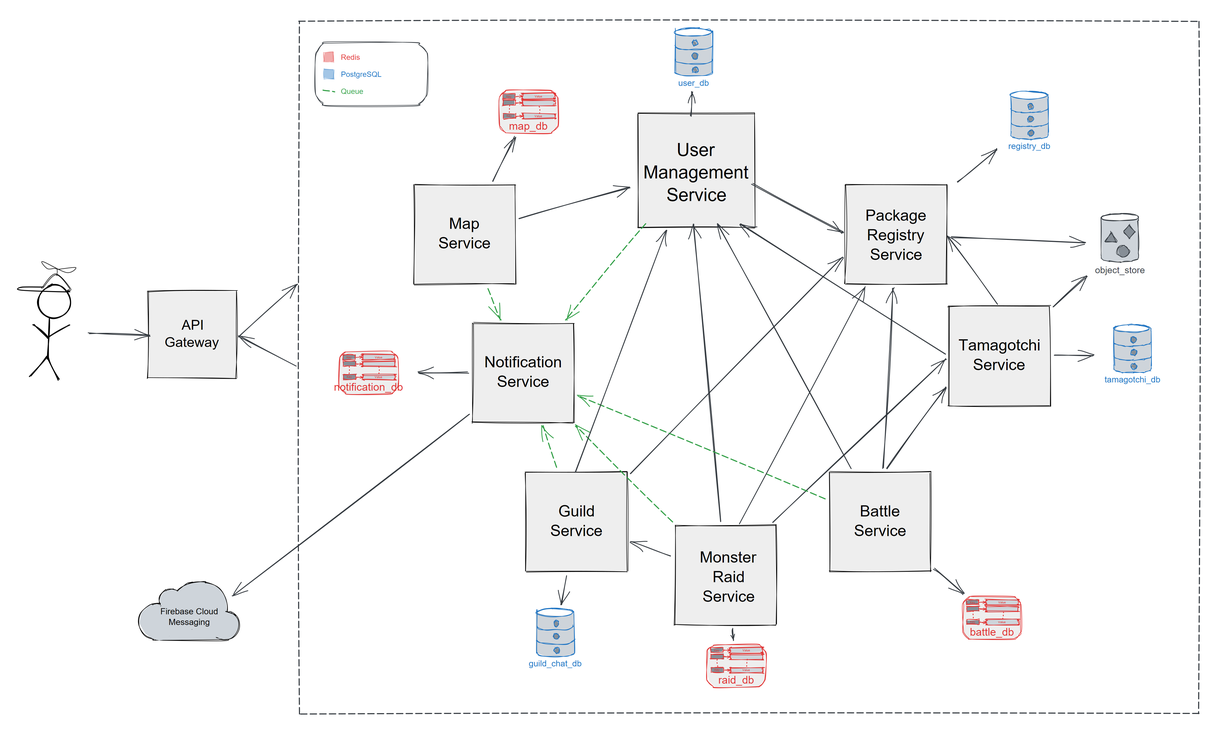
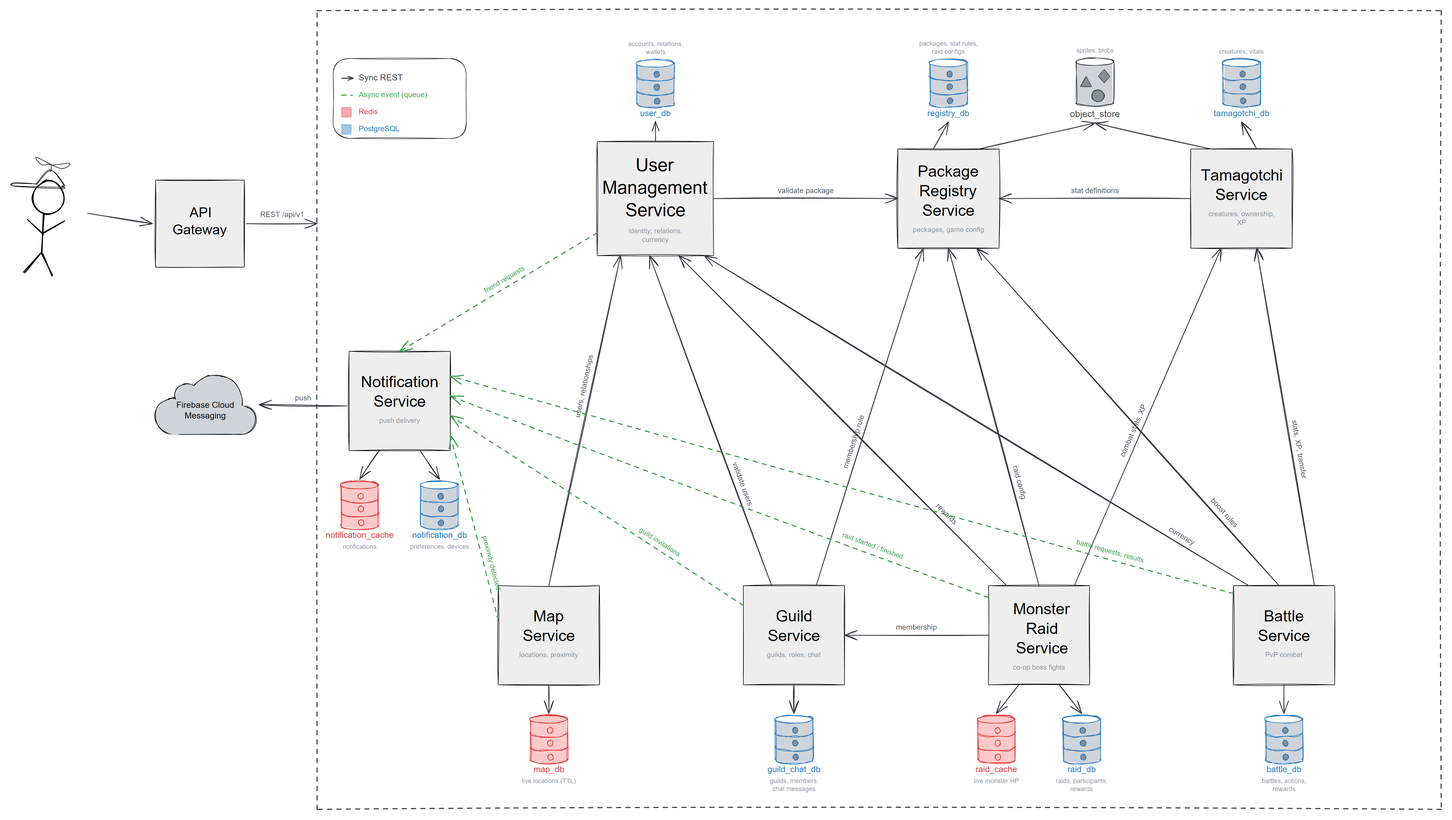
docs: clean up architecture diagram layout and label interactions (#18)
* docs: clean up architecture diagram layout and label interactions

* docs: use red cylinders for redis stores and untangle async arrows

* docs: describe database contents and async events in diagram

* docs: add table of contents to readme

* docs: show the battle service database on postgresql

* docs: link only top-level sections in the table of contents

* docs: list postgresql alongside redis for monster raid service

* fix: probe postgres over tcp in the compose healthchecks

Without an explicit host, pg_isready checks the unix socket at
/var/run/postgresql. The postgres image starts a temporary server on
that socket while initdb runs, so the container was reported healthy
before it accepted TCP connections.

Services waiting on condition: service_healthy could therefore start
too early and fail to connect on a cold start, which showed up as
tamagotchi-api exiting with "Connection refused" after down --volumes.

Probing 127.0.0.1 makes the check match how the services actually
connect.

* docs: rework the deployment section and correct service storage

The deployment section was written for a six service stack and never
caught up: it omitted the Tamagotchi and Notification ports, volumes,
Redis password and health checks, and named neither of their Postman
collections.

Rework it so it stays correct as the system grows:

- rename "Lab 1 Deployment" to "Deployment" and drop the lab wording,
  so later labs do not have to rename or rewrite the section
[…]

diff --git a/README.md b/README.md
@@ -6,6 +6,18 @@ Players raise Tamagotchis in apps of their own creation, all connected to a comm
 
 Developed for the PAD (Distributed Applications Programming) course at FAF, Technical University of Moldova.
 
+## Table of Contents
+
+- [Service Boundaries](#service-boundaries)
+- [Architecture Diagram](#architecture-diagram)
+- [Communication Patterns](#communication-patterns)
+- [Communication Contract](#communication-contract)
+- [Project Management](#project-management)
+- [Development Guidelines](#development-guidelines)
+- [Deployment](#deployment)
+- [Service Ownership and Technology Stack](#service-ownership-and-technology-stack)
+- [Technology Stack Rationale](#technology-stack-rationale)
+
 ## Service Boundaries
 
 ### User Management Service
@@ -50,7 +62,7 @@ Receives continuous geolocation updates from the user's application. It stores t
 
 It provides a map of nearby users: friends and enemies are always visible, while unknown users become relevant only when they come within roughly **6 meters** of one another. When two previously unrelated users cross the proximity threshold, the service generates an event that can result in suggestions to befriend or battle one another.
 
-The service **does not** directly manage battles or notifications — it only emits proximity events. It relies on the **User Management Service** for friend/enemy relationships and publishes events consumed by the **Notification Service**.
+The service **does not** directly manage battles or notifications - it only emits proximity events. It relies on the **User Management Service** for friend/enemy relationships and publishes events consumed by the **Notification Service**.
 
 ### Guild Service
 
@@ -64,7 +76,7 @@ Guilds act as the social context for **Monster Raids**: members can join an acti
 
 Provides a cooperative, clicker-style raid in which members of a guild collectively fight a single powerful monster. A raid has a monster with a large amount of health and a defined duration.
 
-Any eligible guild member may contribute their **primary Tamagotchi** to the raid. Instead of a one-on-one battle, every participating Tamagotchi contributes damage to the same monster. The service maintains the current monster HP, participating users, damage dealt, timestamps, and raid status. Actions may be deliberately simple — players repeatedly attack/click to deal damage, with the amount determined by their primary Tamagotchi's combat properties and any equipped boosts.
+Any eligible guild member may contribute their **primary Tamagotchi** to the raid. Instead of a one-on-one battle, every participating Tamagotchi contributes damage to the same monster. The service maintains the current monster HP, participating users, damage dealt, timestamps, and raid status. Actions may be deliberately simple - players repeatedly attack/click to deal damage, with the amount determined by their primary Tamagotchi's combat properties and any equipped boosts.
 
 When the monster dies, the service distributes rewards (global currency, XP, or other globally managed rewards) to participating users. A raid may also **fail** when its timer expires.
 
@@ -76,7 +88,7 @@ Maintains the packages of the apps participating in the ecosystem and acts as th
 
 It stores package information (identifier/name, version, description, status, associated developers/moderators) and records which users are registered with which packages.
 
-**Moderators** are privileged users associated with a package, representing its developers. They define the package's local Tamagotchi growth mechanics and statistics. Different packages may use completely different, non-normalized statistics — for example, one package may use *hunger, happiness, tiredness*, while another uses *energy, mood, discipline, creativity*. The service stores the definition and interpretation rules for these statistics, including a statistic's maximum value and thresholds that may produce a combat bonus. The **Battle Service** may consult these definitions to compute package-specific bonuses without requiring all packages to share the same data structure.
+**Moderators** are privileged users associated with a package, representing its developers. They define the package's local Tamagotchi growth mechanics and statistics. Different packages may use completely different, non-normalized statistics - for example, one package may use *hunger, happiness, tiredness*, while another uses *energy, mood, discipline, creativity*. The service stores the definition and interpretation rules for these statistics, including a statistic's maximum value and thresholds that may produce a combat bonus. The **Battle Service** may consult these definitions to compute package-specific bonuses without requiring all packages to share the same data structure.
 
 **Admins** are globally privileged users who design and schedule Monster Raids. They define monster name, description, sprites, maximum HP, combat statistics, weaknesses, resistances, special properties, raid duration, participant limits, and reward configuration, and may schedule, activate, deactivate, or cancel raids.
 
@@ -95,11 +107,15 @@ Examples include:
 
 It consumes events published by other services (notably the **User Management Service**, **Map Service**, **Battle Service**, **Guild Service**, and **Monster Raid Service**) and delivers them to the appropriate clients.
 
+[Back to top](#table-of-contents)
+
 ## Architecture Diagram
 
 Requests flow from the client through the API Gateway, which fronts the microservices. Each service owns its own database. Synchronous calls (solid arrows) handle request/response between services, while asynchronous events (dotted arrows) are published to the Notification Service, which delivers push notifications via Firebase Cloud Messaging. Blobs, images and large JSON documents live in shared S3-compatible object storage; service databases keep only their object keys or URLs.
 
 ![Architecture Diagram](docs/architecture.png)
+
+[Back to top](#table-of-contents)
 
 ## Communication Patterns
 
@@ -172,6 +188,8 @@ The following interactions correspond to the arrows in the architecture diagram 
 - `X-Correlation-ID` traces one operation across services and events.
 - Commands that can be submitted more than once accept an `Idempotency-Key`.
 - Services return consistent JSON error objects containing `code`, `message`, and `correlationId`.
+
+[Back to top](#table-of-contents)
 
 ## Communication Contract
 
@@ -249,11 +267,11 @@ Every event sent through the queue uses the following envelope:
 | User Management Service | Accounts, sessions, relationships, wallets and ledger | PostgreSQL |
 | Tamagotchi Service | Creatures, roster slots, package-local vitals and ownership transfers | PostgreSQL; flexible vitals are stored in a `jsonb` column |
 | Package Registry Service | Packages, moderators, statistic definitions and rules, boosts, monsters, raid schedules and global configuration | PostgreSQL |
-| Map Service | Latest location per user, map settings and encounters | Redis with TTL for current locations; PostgreSQL for durable encounters and settings |
+| Map Service | Latest location per user, map settings and encounters | Redis with a TTL per location, so stale positions expire on their own |
 | Battle Service | Battle requests, battles, sides, turns and results | PostgreSQL |
 | Guild Service | Guilds, memberships, membership requests and chat messages | PostgreSQL |
 | Monster Raid Service | Raids, participants, attack batches and rewards | PostgreSQL; current monster HP is kept in Redis |
-| Notification Service | Devices, preferences, notification history and templates | PostgreSQL |
+| Notification Service | Devices, preferences, notification history and templates | PostgreSQL for the per-user notification preferences and registered devices; Redis for the notifications themselves |
 
 MongoDB is not part of the selected architecture. An S3-compatible object store keeps blobs, images and large JSON documents. Services store only the corresponding object key or URL in their own database; Package Registry Service owns shared package and monster assets, while Tamagotchi Service stores references to creature assets.
 
@@ -1054,7 +1072,7 @@ If a dependency is unavailable, the battle remains `SETTLING` and the failed com
 
 #### Map Service
 
-Map Service owns current location state, map settings, encounters and map visibility calculations. Clients continuously replace their latest location through the API Gateway. The service keeps only the newest location for each user in Redis with a TTL and stores durable settings and encounters in PostgreSQL.
+Map Service owns current location state, map settings, encounters and map visibility calculations. Clients continuously replace their latest location through the API Gateway. The service keeps only the newest location for each user, in Redis with a TTL, so a position that stops being refreshed disappears from the map on its own.
 
 ##### Endpoint Catalog
 
@@ -1395,9 +1413,13 @@ PostgreSQL stores device registrations, preferences, notification history, templ
 | Inbound | Monster Raid Service through Queue | Consume raid lifecycle events | Deliver raid notifications |
 | Outbound | Firebase Cloud Messaging | Send push messages over the provider HTTPS API | Deliver notifications to registered client devices |
 
+[Back to top](#table-of-contents)
+
 ## Project Management
 
 Tasks are tracked on the [GitHub Project board](https://github.com/users/m33ga/projects/1). Work is defined through issues (use the issue templates) and assigned before development starts.
+
+[Back to top](#table-of-contents)
 
 ## Development Guidelines
 
@@ -1469,26 +1491,41 @@ Lab release process:
 
 **Never** commit real `.env` files, API keys or credentials. Commit only placeholder templates such as `.env.example`.
 
-## Lab 1 Deployment
+[Back to top](#table-of-contents)
 
-The common Docker Compose deployment runs the User Management, Battle, Map, Monster Raid, Guild, Package Registry, Tamagotchi and Notification services from their public, versioned DockerHub images. It does not build from any private service repository.
+## Deployment
 
-| Service | DockerHub image | API | Databases | Postman collection |
-|---|---|---:|---|---|
-| User Management Service | [`sanda2004/user-management-service:1.0.3`](https://hub.docker.com/r/sanda2004/user-management-service) | `http://localhost:5010` | PostgreSQL on `localhost:5433` | [`collections/user-management-service.postman_collection.json`](collections/user-management-service.postman_collection.json) |
-| Battle Service | [`sanda2004/battle-service:1.0.2`](https://hub.docker.com/r/sanda2004/battle-service) | `http://localhost:5020` | PostgreSQL on `localhost:5434` | [`collections/battle-service.postman_collection.json`](collections/battle-service.postman_collection.json) |
-| Map Service | [`grdz/map-service:1.0.3`](https://hub.docker.com/r/grdz/map-service) | `http://localhost:5030` | Redis on `localhost:6380` | [`collections/map-service.postman_collection.json`](collections/map-service.postman_collection.json) |
-| Monster Raid Service | [`grdz/monster-raid-service:1.0.3`](https://hub.docker.com/r/grdz/monster-raid-service) | `http://localhost:5040` | PostgreSQL on `localhost:5435`, Redis on `localhost:6381` | [`collections/monster-raid-service.postman_collection.json`](collections/monster-raid-service.postman_collection.json) |
-| Guild Service | [`cosmak47/pad-guild-service:0.1.0`](https://hub.docker.com/r/cosmak47/pad-guild-service) | `http://localhost:8081` | PostgreSQL on `localhost:5436` | [`collections/guild-service.postman_collection.json`](collections/guild-service.postman_collection.json) |
-| Package Registry Service | [`cosmak47/pad-package-registry-service:0.1.0`](https://hub.docker.com/r/cosmak47/pad-package-registry-service) | `http://localhost:8082` | PostgreSQL on `localhost:5437` | [`collections/package-registry-service.postman_collection.json`](collections/package-registry-service.postman_collection.json) |
-| Tamagotchi Service | [`johnnyc05/pad-tamagotchi-service:v1.0.3`](https://hub.docker.com/r/johnnyc05/pad-tamagotchi-service) | `http://localhost:5050` | PostgreSQL on `localhost:5438` | [`collections/tamagotchi-service.postman_collection.json`](collections/tamagotchi-service.postman_collection.json) |
-| Notification Service | [`johnnyc05/pad-notification-service:v1.2.1`](https://hub.docker.com/r/johnnyc05/pad-notification-service) | `http://localhost:5060` | PostgreSQL on `localhost:5439`, Redis on `localhost:6382` | [`collections/notification-service.postman_collection.json`](collections/notification-service.postman_collection.json) |
+Docker Compose runs all eight services together from their public DockerHub images. It never builds from a private service repository, so a machine only needs Docker and the image tags pinned in [`compose.yaml`](compose.yaml).
+
+| Service | Image | API | Collection |
+|---|---|---|---|
+| User Management | [`sanda2004/user-management-service`](https://hub.docker.com/r/sanda2004/user-management-service) | `http://localhost:5010` | [user-management](collections/user-management-service.postman_collection.json) |
+| Battle | [`sanda2004/battle-service`](https://hub.docker.com/r/sanda2004/battle-service) | `http://localhost:5020` | [battle](collections/battle-service.postman_collection.json) |
+| Map | [`grdz/map-service`](https://hub.docker.com/r/grdz/map-service) | `http://localhost:5030` | [map](collections/map-service.postman_collection.json) |
+| Monster Raid | [`grdz/monster-raid-service`](https://hub.docker.com/r/grdz/monster-raid-service) | `http://localhost:5040` | [monster-raid](collections/monster-raid-service.postman_collection.json) |
+| Tamagotchi | [`johnnyc05/pad-tamagotchi-service`](https://hub.docker.com/r/johnnyc05/pad-tamagotchi-service) | `http://localhost:5050` | [tamagotchi](collections/tamagotchi-service.postman_collection.json) |
+| Notification | [`johnnyc05/pad-notification-service`](https://hub.docker.com/r/johnnyc05/pad-notification-service) | `http://localhost:5060` | [notification](collections/notification-service.postman_collection.json) |
+| Guild | [`cosmak47/pad-guild-service`](https://hub.docker.com/r/cosmak47/pad-guild-service) | `http://localhost:8081` | [guild](collections/guild-service.postman_collection.json) |
+| Package Registry | [`cosmak47/pad-package-registry-service`](https://hub.docker.com/r/cosmak47/pad-package-registry-service) | `http://localhost:8082` | [package-registry](collections/package-registry-service.postman_collection.json) |
 
 ### Requirements
 
 - Docker Engine or Docker Desktop with Docker Compose v2
-- Ports `5010`, `5020`, `5030`, `5040`, `8081`, `8082`, `5433`, `5434`, `5435`, `5436`, `5437`, `6380`, and `6381` available, or different ports configured in `.env`
-- Internet access for the first pull from DockerHub
+- Internet access for the first image pull
+- The host ports below free, or replacement values set in `.env`
+
+| Service | API | PostgreSQL | Redis |
+|---|---:|---:|---:|
+| User Management | 5010 | 5433 | |
+| Battle | 5020 | 5434 | |
+| Map | 5030 | | 6380 |
+| Monster Raid | 5040 | 5435 | 6381 |
+| Tamagotchi | 5050 | 5438 | |
+| Notification | 5060 | 5439 | 6382 |
+| Guild | 8081 | 5436 | |
+| Package Registry | 8082 | 5437 | |
+
+Every port above is a default that `.env` can override. `GUILD_API_PORT` and `PACKAGE_REGISTRY_API_PORT` are the only two without a built-in fallback, so they must be present in `.env` or the deployment refuses to start.
 
 ### Run the Services
 
@@ -1498,7 +1535,7 @@ The common Docker Compose deployment runs the User Management, Battle, Map, Mons
    cp .env.example .env
    ```
 
-2. Replace every `change_me` value in `.env`. Use one private `JWT_SIGNING_KEY` of at least 32 UTF-8 characters for both services. Never commit this file.
+2. Replace every `change_me` value in `.env`. `JWT_SIGNING_KEY` is one private key of at least 32 UTF-8 characters, shared by the services that issue and verify tokens. Never commit this file.
 
 3. Pull the public images and start the deployment:
 
@@ -1507,33 +1544,59 @@ The common Docker Compose deployment runs the User Management, Battle, Map, Mons
    docker compose up -d --wait
    ```
 
-4. Verify the services:
+4. Verify that every service answers:
 
    ```bash
    curl http://localhost:5010/_health
    curl http://localhost:5020/_health
    curl http://localhost:5030/health
    curl http://localhost:5040/health
+   curl http://localhost:5050/_health
+   curl http://localhost:5060/_health
    curl http://localhost:8081/healthz
    curl http://localhost:8082/healthz
    docker compose ps
    ```
 
-5. Stop the containers without deleting database data:
+5. Stop the containers, keeping the stored data:
 
    ```bash
    docker compose down
    ```
 
-The APIs use `/api/v1` as their base path. The C# services answer health checks on `/_health`, Map and Monster Raid on `/health`, and Guild and Package Registry on `/healthz`. Data is stored in the named volumes `user-management-data`, `battle-data`, `monster-raid-data`, `map-redis-data`, `monster-raid-redis-data`, `guild-data` and `package-registry-data`; `docker compose down --volumes` intentionally deletes that persisted data.
+### Endpoints
 
-Every database and cache also publishes a host port, so they can be inspected directly with `psql` or `redis-cli`; each Redis instance requires its own password from `.env`, `MAP_REDIS_PASSWORD` and `MONSTER_RAID_REDIS_PASSWORD`. Both Go services serve their generated OpenAPI document at `/openapi.json` with a Swagger UI at `/docs`, for example [http://localhost:5040/docs](http://localhost:5040/docs).
+Every API is served under `/api/v1`. Health checks sit outside that prefix and differ by stack: the C# services answer on `/_health`, Map and Monster Raid on `/health`, and Guild and Package Registry on `/healthz`.
 
-The User Management and Battle services apply their ordered SQL migrations automatically with Evolve when they start, and the Monster Raid Service applies its own with goose. Guild and Package Registry include their idempotent migrations in their private service images and apply them automatically when the services start. No database needs manual preparation.
+Map and Monster Raid also publish their generated OpenAPI document at `/openapi.json` and a Swagger UI at `/docs`, for example [http://localhost:5040/docs](http://localhost:5040/docs). The committed specification of every service is browsable under [`docs/schemas`](docs/schemas).
 
-The User Management Service mocks Package Registry validation and package registration. The Battle Service mocks User Management, Tamagotchi, Package Registry, and queue publishing dependencies. The Map Service mocks the User Management relationships it reads, and the Monster Raid Service mocks Guild and Package Registry. Guild mocks User Management, Package Registry and queue publishing while preserving invitation events in its transactional outbox. Package Registry has no outbound service dependency and uses mocked JWT identities and roles for Lab 1. No other service is required for this Lab 1 deployment.
+### Storage
 
-To run the Postman collections, import the JSON files from [`collections`](collections) and keep their default service URLs. For the User Management and Battle collections, set the private `jwtSigningKey` collection variable to the same value as `JWT_SIGNING_KEY` in the local `.env` file; do not export or commit that value. The Map and Monster Raid collections need no key, because those services do not verify tokens yet and Monster Raid identifies the caller with the `X-User-ID` header until the gateway injects it from the JWT. Guild uses UUID bearer tokens as mocked user identities. Package Registry uses UUID bearer tokens together with the documented `X-User-Role` values. Run each collection from top to bottom so that its scripts retain the identifiers required by later requests.
+Every database and cache publishes a host port, so they can be inspected directly with `psql` or `redis-cli`. Each Redis instance has its own password in `.env`: `MAP_REDIS_PASSWORD`, `MONSTER_RAID_REDIS_PASSWORD` and `NOTIFICATION_REDIS_PASSWORD`.
+
+Data persists in ten named volumes: `user-management-data`, `battle-data`, `map-redis-data`, `monster-raid-data`, `monster-raid-redis-data`, `guild-data`, `package-registry-data`, `tamagotchi-data`, `notification-data` and `notification-redis-data`. `docker compose down` keeps them, while `docker compose down --volumes` deletes the stored data.
+
+No database needs manual preparation. The C# services apply their ordered SQL migrations when they start, the Monster Raid Service applies its own with goose, and Guild and Package Registry ship idempotent migrations inside their images.
+
+### Mocked Dependencies
+
+Each service mocks the collaborators it cannot reach, so the deployment runs without a gateway or a message broker:
+
+- **User Management** mocks Package Registry validation and package registration.
+- **Battle** mocks User Management, Tamagotchi, Package Registry and queue publishing.
+- **Map** mocks the User Management relationships it reads.
+- **Monster Raid** mocks Guild and Package Registry.
+- **Guild** mocks User Management, Package Registry and queue publishing, keeping invitation events in its transactional outbox.
+- **Package Registry** has no outbound dependency and uses mocked identities and roles.
+- **Tamagotchi** and **Notification** need no other service running. With no broker deployed, Notification has no events to consume.
+
+### Postman Collections
+
+Import the JSON files from [`collections`](collections) and keep their default service URLs. Run each collection from top to bottom, because its test scripts hand identifiers to later requests.
+
+The User Management and Battle collections ship `jwtSigningKey` empty and their token scripts fail until it is set. Give it the same value as `JWT_SIGNING_KEY` in the local `.env`, and never export or commit it. Map and Monster Raid need no token, and Monster Raid identifies the caller with the `X-User-ID` header. Guild uses UUID bearer tokens as mocked identities, and Package Registry uses the same together with the documented `X-User-Role` values.
+
+[Back to top](#table-of-contents)
 
 ## Service Ownership and Technology Stack
 
@@ -1544,9 +1607,9 @@ To run the Postman collections, import the JSON files from [`collections`](colle
 | Battle Service | [Crudu Alexandra](https://github.com/crudualexandra) | C# | PostgreSQL |
 | Map Service | [Gurduza Mihai](https://github.com/m33ga) | Go | Redis |
 | Guild Service | [Usurelu Cosmin](https://github.com/CosmaK-47) | Go | PostgreSQL |
-| Monster Raid Service | [Gurduza Mihai](https://github.com/m33ga) | Go | Redis |
+| Monster Raid Service | [Gurduza Mihai](https://github.com/m33ga) | Go | PostgreSQL, Redis |
 | Package Registry Service | [Usurelu Cosmin](https://github.com/CosmaK-47) | Go | PostgreSQL |
-| Notification Service | [Cobzari Ion](https://github.com/J0hnny05) | C# | Redis |
+| Notification Service | [Cobzari Ion](https://github.com/J0hnny05) | C# | PostgreSQL, Redis |
 
 ### User Management Service
 
@@ -1570,7 +1633,7 @@ The Tamagotchi Service maintains the globally relevant state of Tamagotchis, inc
 
 The Notification Service handles asynchronous notifications sent to users through Firebase Cloud Messaging. It consumes events generated by other services and delivers notifications to clients.
 
-**Redis** is used for fast-access notification and event-related data where low latency is important.
+**PostgreSQL** is used for the per-user notification preferences and the registered devices, which must survive restarts. **Redis** is used for the notifications themselves, where low latency matters more than durability.
 
 ### Map Service
 
@@ -1588,13 +1651,15 @@ The Guild Service manages guilds, memberships, roles, permissions and guild chat
 
 The Monster Raid Service manages cooperative raids, including monster health, participants, damage, raid duration and rewards.
 
-**Redis** is used for the frequently changing raid state, such as monster HP, participants and active raid status.
+**PostgreSQL** is used because raids, participants, attacks and rewards must survive restarts and settle consistently. **Redis** keeps only the live monster HP, where concurrent attacks need fast atomic updates.
 
 ### Package Registry Service
 
 The Package Registry Service manages application packages and package-specific game configuration. It stores package information, developers, moderators and package-specific Tamagotchi statistics.
 
 **PostgreSQL** is used because package configuration can contain flexible attributes that can be stored using JSON/JSONB fields while still benefiting from relational data and transactional consistency.
+
+[Back to top](#table-of-contents)
 
 ## Technology Stack Rationale
 
@@ -1608,7 +1673,7 @@ Go is used for lightweight distributed services that require efficient concurren
 
 ### PostgreSQL
 
-PostgreSQL is used when data has a strong relational structure and requires transactional consistency. It is used by User Management, Tamagotchi, Battle, Guild and Package Registry services. PostgreSQL also supports flexible and less-structured data through JSON/JSONB fields, allowing services to store package-specific attributes without requiring a separate document database.
+PostgreSQL is used when data has a strong relational structure and requires transactional consistency. It is used by User Management, Tamagotchi, Battle, Guild, Monster Raid and Package Registry services. PostgreSQL also supports flexible and less-structured data through JSON/JSONB fields, allowing services to store package-specific attributes without requiring a separate document database.
 
 ### Redis
 
@@ -1621,3 +1686,5 @@ An S3-compatible object store (e.g. [RustFS](https://github.com/rustfs/rustfs)) 
 ### Database-per-Service
 
 Each microservice owns its database instead of directly sharing another service's database. This reduces coupling between services and allows each service to choose the database technology that best fits its data and workload.
+
+[Back to top](#table-of-contents)
